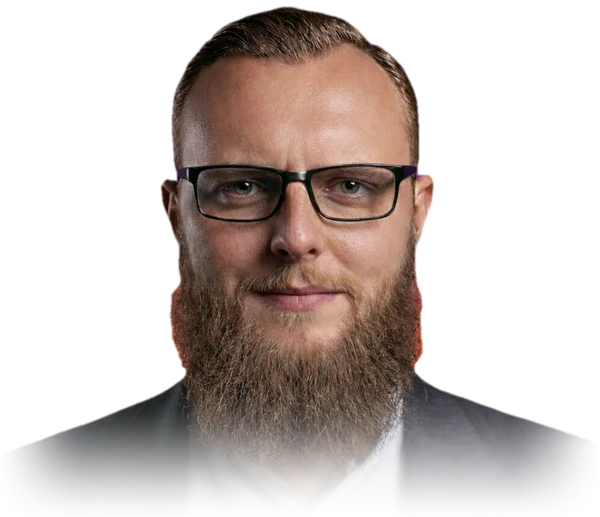
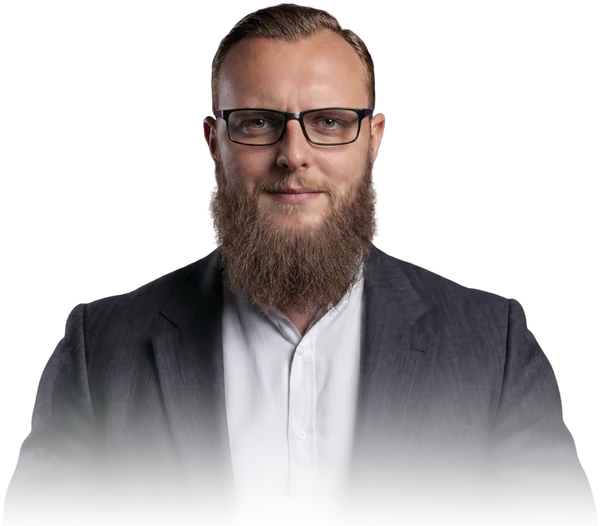
Use the photo the customer pointed at for the CTA portrait
The portrait above "Начать обучение" was built from the studio headshot in the
repository root; the right source is assets/photo-Photoroom.png, already cut
out. It keeps that framing — head and torso — and only gets the bottom
dissolve so the jacket does not end on the frame's cut line, plus the declared
size to match.

Claude-Session: https://claude.ai/code/session_01LHeb66oPYoEFF5VE73cuBT

diff --git a/automation/index.html b/automation/index.html
@@ -416,7 +416,7 @@
         <p class="lead" data-i18n="finalLead">Пройдите курс шаг за шагом — от поиска процесса до работающего <span class="nb">ИИ-агента</span> в вашем бизнесе.</p>
         <picture>
           <source srcset="/automation/andre-cta.webp" type="image/webp">
-          <img class="cta-photo" id="cta-photo" src="/automation/andre-cta.png" alt="" width="600" height="517" decoding="async" onerror="this.style.display='none'">
+          <img class="cta-photo" id="cta-photo" src="/automation/andre-cta.png" alt="" width="600" height="526" decoding="async" onerror="this.style.display='none'">
         </picture>
         <div class="cta-row">
           <a class="btn-white btn-start" id="final-cta" href="https://andre.technology/automation/main">
